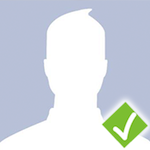
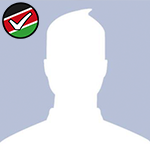
Much changes UX.

Changed region(s): [[0.6667, 0.64, 1.0, 0.9867], [0.0, 0.0, 0.2667, 0.2667]]

diff --git a/index.html b/index.html
@@ -62,6 +62,7 @@ menu-title: Home
 				<div class="clearfix"></div>
 				<p class="lead"></p>
 				
+				<a class="btn btn-large btn-info" href="#" id="findlink" onclick="$('#find').scrollTop();">Find a Registration Centre</a>
 				<!--<a class="btn btn-large btn-success" href="#" id="findlink" onclick="$('#find').scrollTop();">
 					<img src="img/tick.png" style="height: 20px; margin-top: -5px;" /> Nimeregister</a>-->
 			</div>
@@ -84,38 +85,37 @@ menu-title: Home
 	</div>
 </div>
 
-<div class="jumbotron" id="jumbotron" style="margin-top: 0;">
-	<a class="btn btn-large btn-info" href="#" id="findlink" onclick="$('#find').scrollTop();">Find a Registration Centre</a>
 </div>
-
-<hr />
-
+<div style="background: #232323; padding: 30px 0 0; color: #fff;">
+<div class="container-narrow">
 <div style="text-align: center;">
-	<h2>Add it To Your Profile Picture</h2>
-	
-	<p style="margin-top: 20px;">
-		<img src="img/portraits/ex1.png" alt="" class="img-polaroid"/>
-		<i class="icon-arrow-right"></i>
-		<img src="img/portraits/ex11.png" alt="" class="img-polaroid"/>
-	</p>
-	
-	<div style="margin-top: 20px;">
-		<p class="lead">Connect with <a href="#">Twitter</a> or <a href="#">Facebook</a>.</p>
-		
-	</div>
+	<h1>Nimeregister Profile Badge</h1>
+	<p class="lead">Get your Nimeregister profile badge today! It's easy.</p>
 	
 	<div class="row-fluid">
-		<div class="span6">
-			<div class="well" id="twitter-user">
+		<div class="span8 offset2" style="overflow: hidden;">
+			<div class="well" id="twitter-user" style="color: #333; padding-bottom: 50px; margin-bottom: -20px;">
+				<p style="margin-top: 20px;">
+					<img src="img/portraits/ex1.png" alt="" class="img-polaroid"/>
+					<i class="icon-arrow-right"></i>
+					<img src="img/portraits/ex11.png" alt="" class="img-polaroid"/>
+				</p>
+				
+				<div class="btn-group" data-toggle="buttons-radio" style="margin: 15px 0px;">
+					<button onclick="javascript:void(0);" class="btn btn-large active"> <b>Twitter</b></button>
+					<button onclick="javascript:void(0);" class="btn btn-large"> <b>Facebook</b></button>
+				</div>
+				
 				<h3 style="line-height:100%; margin-top: 0;">Twitter Connect</h3>
 				<div class="input-prepend" id="twitter-name" style="margin-bottom: 10px;">
 					<span class="add-on">@</span>
 					<input class="span6" id="prependedInput" type="text" placeholder="Username">
 				</div>
-				<a href="#" class="btn btn-info"><i class="icon-user icon-white"></i> Get Your Profile Image</a>
+				<a href="#" class="btn btn-large btn-info"><i class="icon-user icon-white"></i> Get Your Profile Image</a><br />
 				<a href="#" class="btn btn-success disabled">Update Profile Image <i class="icon-ok icon-white"></i></a>
 			</div>
 		</div>
+		<!--
 		<div class="span6">
 			<div class="well" id="twitter-user">
 				<h3 style="line-height:100%; margin-top: 0;">Facebook Connect</h3>
@@ -126,12 +126,16 @@ menu-title: Home
 				<a href="#" class="btn btn-info"><i class="icon-user icon-white"></i> Get Your Profile Image</a>
 				<a href="#" class="btn btn-success disabled">Update Profile Image <i class="icon-ok icon-white"></i></a>
 			</div>
-		</div>
+		</div> -->
 	</div>
 	
 	
 	
 </div>
+</div>
+</div>
+
+<div class="container-narrow">
 
 <!--
 <a class="btn btn-large btn-success" href="#">Update Profile Pic</a>

diff --git a/css/style.css b/css/style.css
@@ -13,7 +13,7 @@
  */
  
 body {
- 	padding-top: 20px;
+	padding-top: 20px;
  	padding-bottom: 40px;
 }
 
@@ -37,6 +37,9 @@ body {
 		height: 100px;
 	}
 
+#myCarousel .item{
+	height: 400px;
+}
  
 /* Main marketing message and sign up button */
 .jumbotron {
@@ -66,11 +69,10 @@ body {
 		}
 
 #twitter-user{
-	display: inline-block;
+	
 }
 	#twitter-user a{
 		margin: 5px;
-		width: 70%;
 	}
 
 /* Supporting marketing content */

diff --git a/_layouts/default.html b/_layouts/default.html
@@ -40,7 +40,6 @@
         <![endif]-->
 
         <!-- Add your site or application content here -->
-        
         <div class="container-narrow">
         	<div class="masthead">
         		
